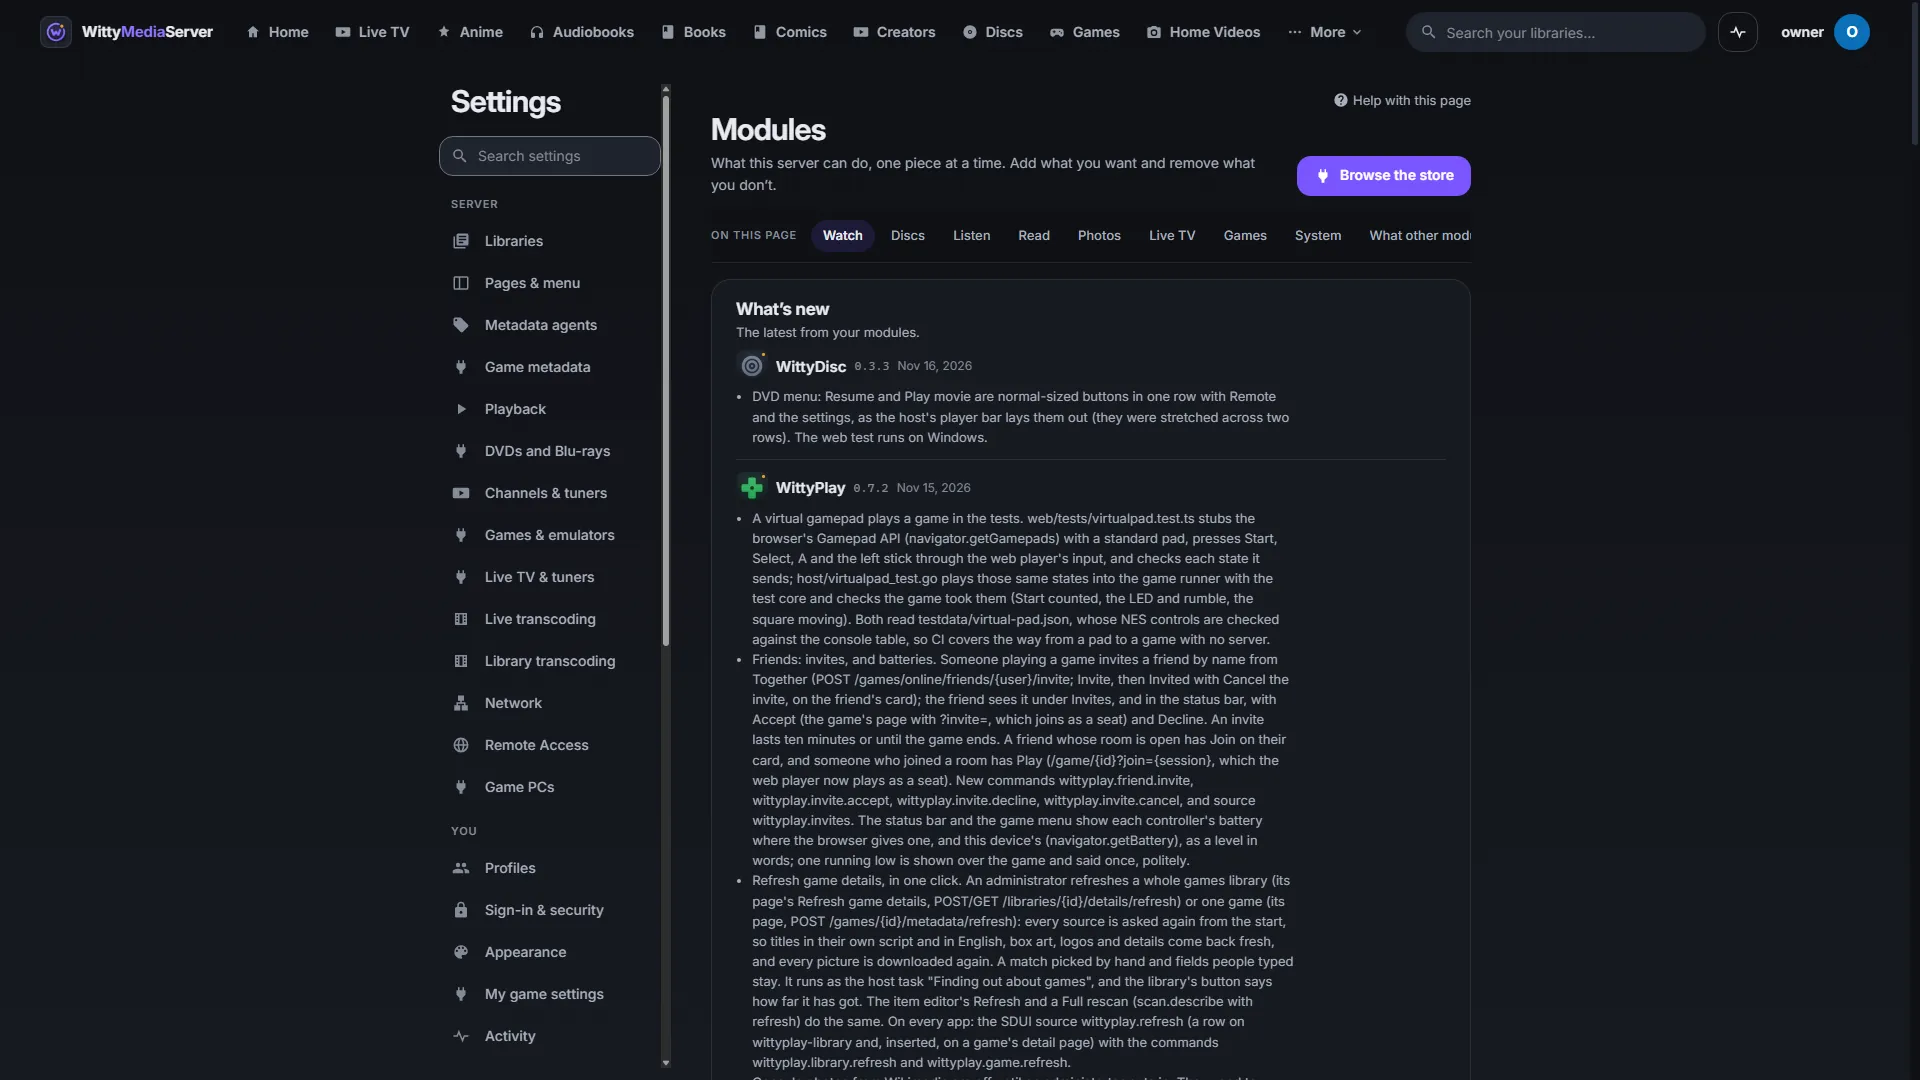
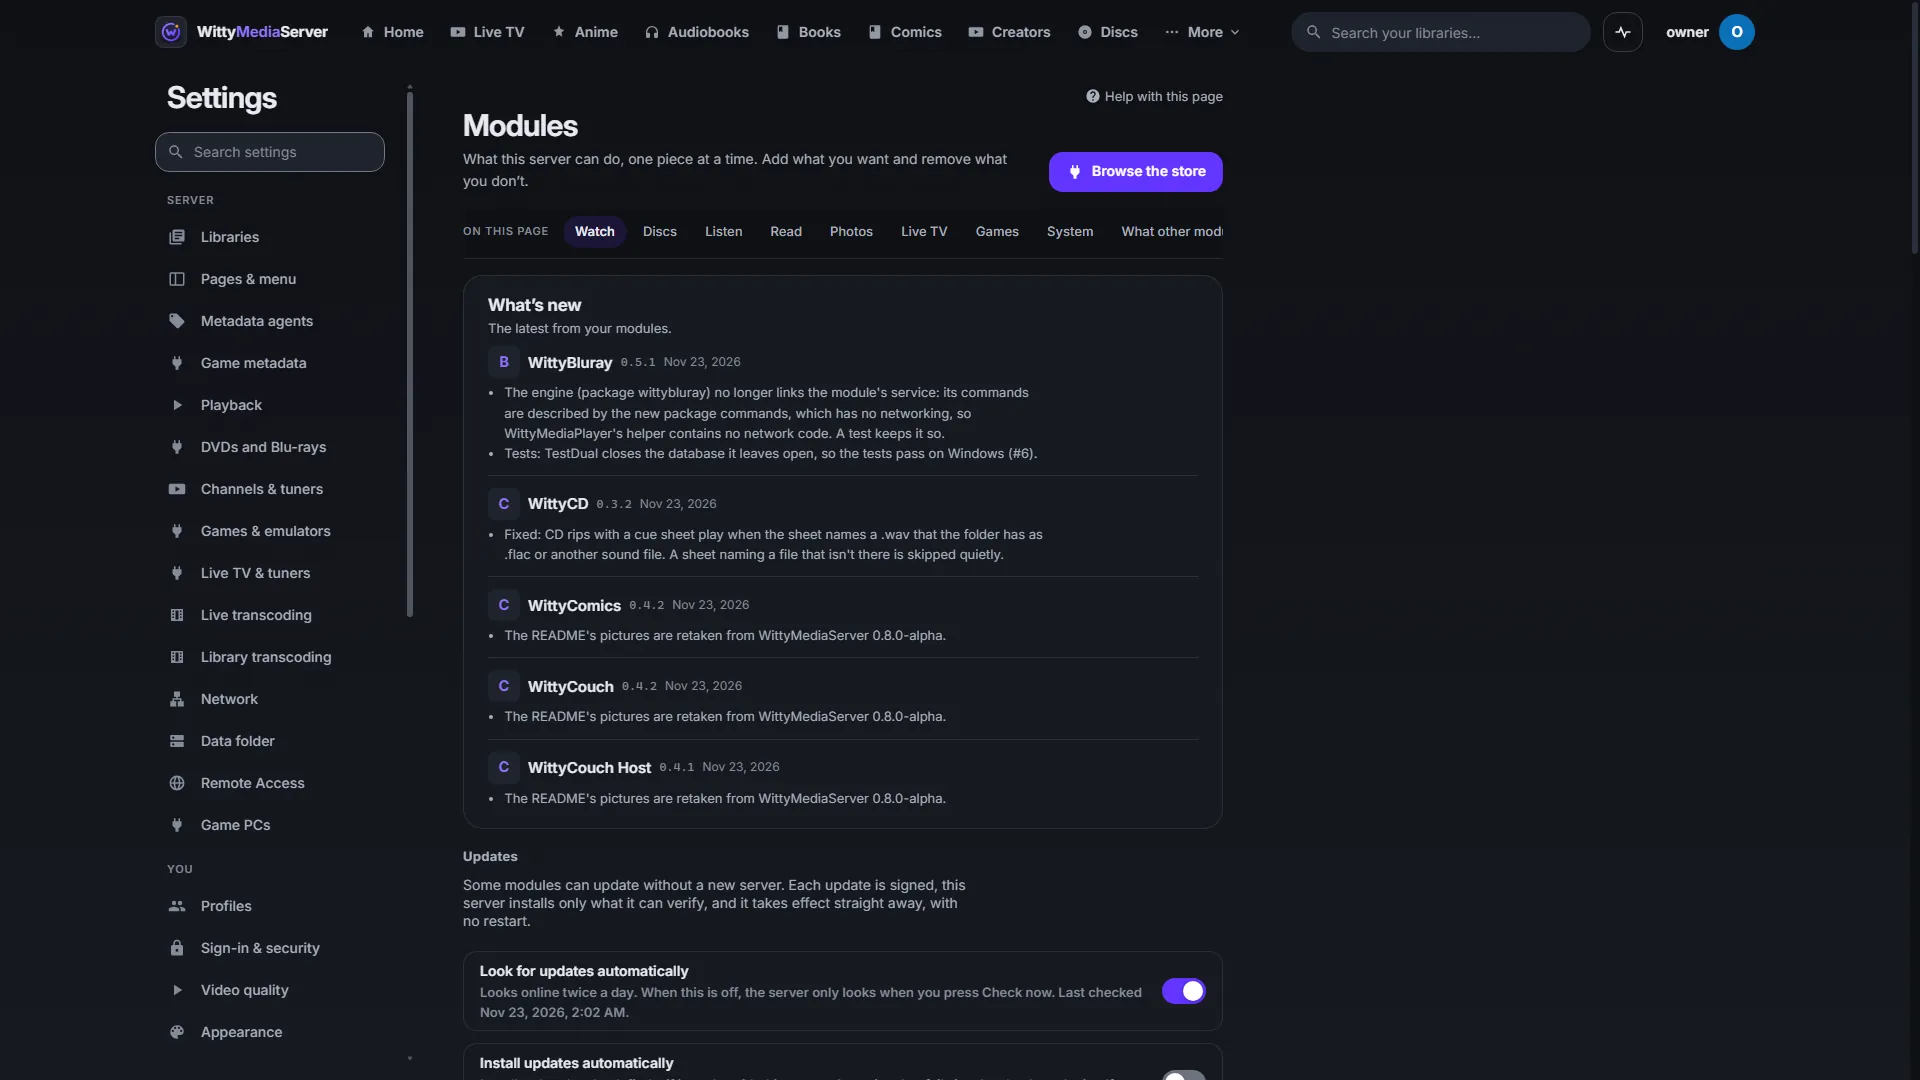
README pictures retaken from 0.8.1-alpha
Taken from a test server of WittyMediaServer 0.8.1-alpha with the 0.8.1 modules, filled only with openly licensed media; docs/images/CREDITS.md names what each one shows.

diff --git a/README.md b/README.md
@@ -6,7 +6,7 @@ The list of modules a [WittyMediaServer](https://github.com/wittywilla/WittyMedi
 
 ![The module store in WittyMediaServer](docs/images/module-store.webp)
 
-<sub>What a server makes of this list: its store, here showing this catalogue.</sub>
+<sub>What a server makes of this list: its store, here from a local test catalogue.</sub>
 
 ![The Modules page in Settings](docs/images/settings-modules.webp)
 

diff --git a/docs/images/CREDITS.md b/docs/images/CREDITS.md
@@ -4,5 +4,5 @@ Pictures taken from a test server of WittyMediaServer, filled with openly licens
 
 | Picture | What it shows |
 |---|---|
-| `module-store.webp` | What a server makes of this list: its store, here showing this catalogue. |
+| `module-store.webp` | What a server makes of this list: its store, here from a local test catalogue. |
 | `settings-modules.webp` | Settings, Modules, in WittyMediaServer. |
